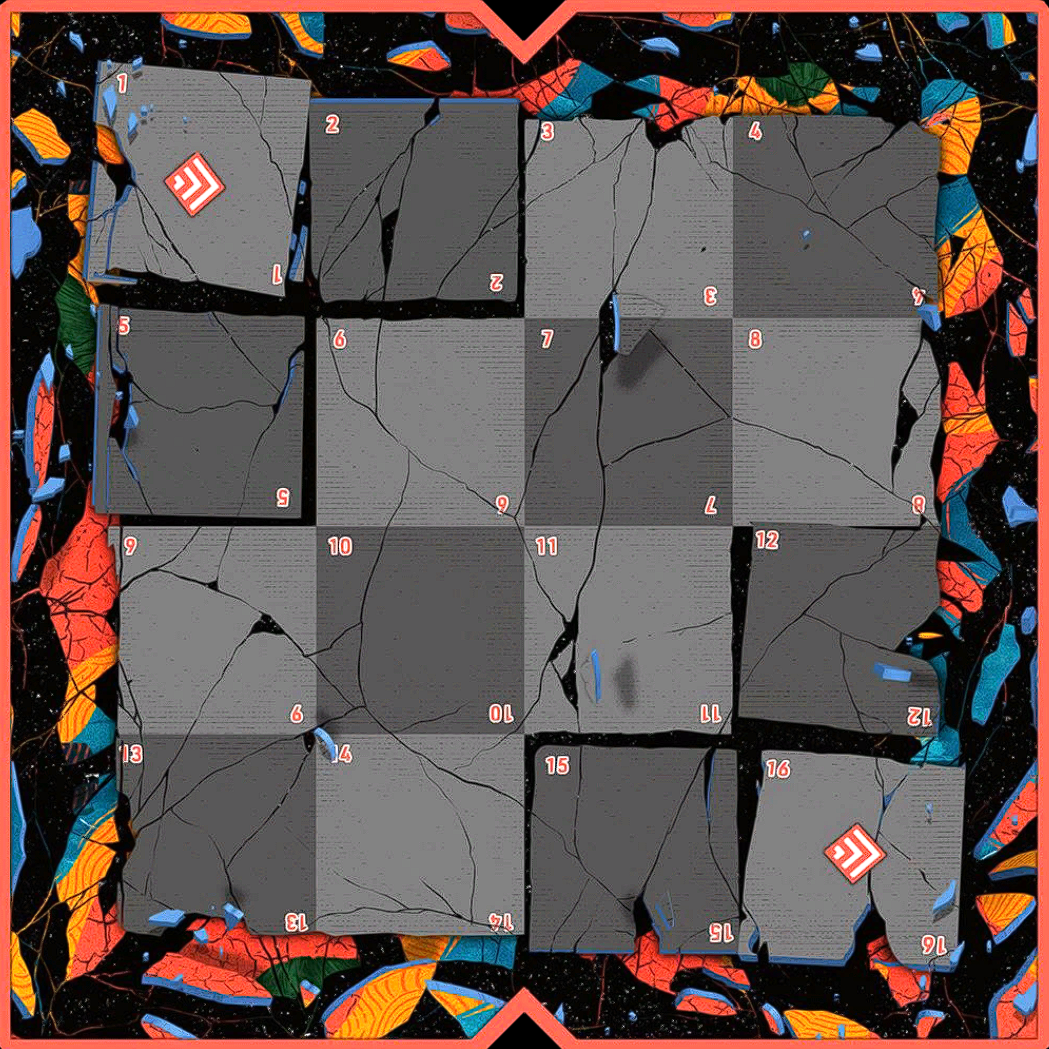
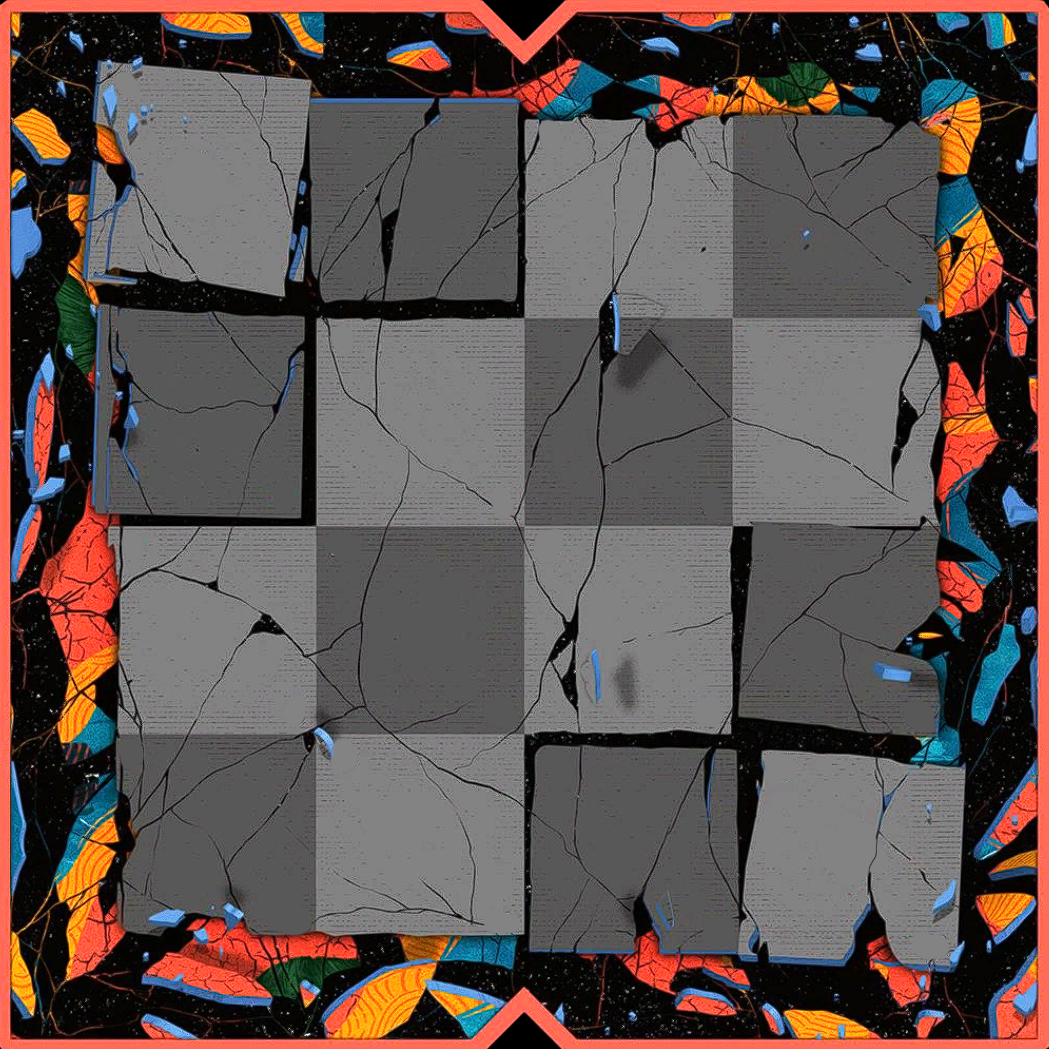
[IHM] Suggestion statue + images plateaux + animation joueur courant + couleur statue neutre

diff --git a/src/Vue/PlateauSwing.java b/src/Vue/PlateauSwing.java
@@ -19,7 +19,8 @@ public class PlateauSwing extends JComponent implements Plateau {
     Image pionNoir;
     Image statueBlanche;
     Image statueNoire;
-    Image statueOrange;
+    Image statueViolette;
+    Image statueVerte;
     VuePlateau vue;
     Graphics2D drawable;
     private final double pionSize = 0.8;
@@ -69,8 +70,11 @@ public class PlateauSwing extends JComponent implements Plateau {
             in = ClassLoader.getSystemClassLoader().getResourceAsStream("Img/statueNoire.png");
             statueNoire = ImageIO.read(in);
 
-            in = ClassLoader.getSystemClassLoader().getResourceAsStream("Img/statueOrange.png");
-            statueOrange = ImageIO.read(in);
+            in = ClassLoader.getSystemClassLoader().getResourceAsStream("Img/statueViolette.png");
+            statueViolette = ImageIO.read(in);
+
+            in = ClassLoader.getSystemClassLoader().getResourceAsStream("Img/statueVerte.png");
+            statueVerte = ImageIO.read(in);
 
         } catch (IOException e) {
             e.printStackTrace();
@@ -115,7 +119,7 @@ public class PlateauSwing extends JComponent implements Plateau {
             drawable.drawImage(statueNoire, (int) (getXoffset()+c*getLargeurCase()+(getLargeurCase()-getPionlargeur())/2), (int) (getYoffset()+l* getHauteurCase()+(getHauteurCase()-getPionHauteur())/2), getPionlargeur(), getPionHauteur(), this);
         }else{
             drawable.setComposite(AlphaComposite.getInstance(AlphaComposite.SRC_OVER, (float) alpha));
-            drawable.drawImage(statueOrange, (int) (getXoffset()+c*getLargeurCase()+(getLargeurCase()-getPionlargeur())/2), (int) (getYoffset()+l* getHauteurCase()+(getHauteurCase()-getPionHauteur())/2), getPionlargeur(), getPionHauteur(), this);
+            drawable.drawImage(statueViolette, (int) (getXoffset()+c*getLargeurCase()+(getLargeurCase()-getPionlargeur())/2), (int) (getYoffset()+l* getHauteurCase()+(getHauteurCase()-getPionHauteur())/2), getPionlargeur(), getPionHauteur(), this);
         }
         drawable.setComposite(compo);
     }
@@ -177,6 +181,10 @@ public class PlateauSwing extends JComponent implements Plateau {
         Color myColour = new Color(18, 255, 0,175 );
         drawable.setColor(myColour);
         drawable.fillOval(xFocus-focusRadius, yFocus-focusRadius, focusRadius*2, focusRadius*2);
+    }
+
+    public void tracerSuggestionStatue(double l, double c) {
+        drawable.drawImage(statueVerte, (int) (getXoffset()+c*getLargeurCase()+(getLargeurCase()-getPionlargeur())/2), (int) (getYoffset()+l* getHauteurCase()+(getHauteurCase()-getPionHauteur())/2), getPionlargeur(), getPionHauteur(), this);
     }
 
     public void tracerBrillanceFocus(int focus){

diff --git a/src/Vue/Inventory.java b/src/Vue/Inventory.java
@@ -9,6 +9,7 @@ import java.awt.event.MouseAdapter;
 import java.awt.event.MouseEvent;
 import java.io.IOException;
 import java.io.InputStream;
+import java.net.URL;
 import java.util.ArrayList;
 
 public class Inventory implements Observateur {
@@ -23,6 +24,8 @@ public class Inventory implements Observateur {
     JLabel labelPlayer;
     IHMState state;
     CollecteurEvenements controleur;
+    ImageIcon loadingIcon;
+    JLabel loadingLabel;
 
     Inventory(int joueur, DeroulementJeu jeu, IHMState state, CollecteurEvenements controleur){
 
@@ -48,14 +51,22 @@ public class Inventory implements Observateur {
                 in = ClassLoader.getSystemClassLoader().getResourceAsStream("Img/statueNoire.png");
                 pionStatue = ImageIO.read(in).getScaledInstance(50, 50, Image.SCALE_SMOOTH);
             }
+            URL url = ClassLoader.getSystemResource("Img/arrow.gif");
+            loadingIcon = new ImageIcon(url);
         } catch (IOException e) {
             e.printStackTrace();
         }
 
         panel = new JPanel();
-        panel.setLayout(new FlowLayout(FlowLayout.CENTER));
+        panel.setLayout(new FlowLayout(FlowLayout.CENTER,25,5));
         panel.setMaximumSize(new Dimension((int) panel.getMaximumSize().getWidth(), 60));
         panel.setPreferredSize(new Dimension((int) panel.getMaximumSize().getWidth(), 60));
+
+        loadingLabel = new JLabel(loadingIcon);
+        loadingIcon.setImage(loadingIcon.getImage().getScaledInstance(50,50,Image.SCALE_DEFAULT));
+        loadingLabel.setIcon(loadingIcon);
+        loadingLabel.setVisible(false);
+        panel.add(loadingLabel);
 
         labelPlayer = new JLabel("Joueur "+joueur+" : ");
         labelPlayer.setFont(new Font(Font.MONOSPACED, Font.BOLD, 30));
@@ -106,9 +117,11 @@ public class Inventory implements Observateur {
         if(jeu.getJoueurActuel().getID()==joueur){
             panel.setBackground(Color.ORANGE);
             labelPlayer.setForeground(Color.BLACK);
+            loadingLabel.setVisible(true);
         }else{
             panel.setBackground(Color.DARK_GRAY);
             labelPlayer.setForeground(Color.WHITE);
+            loadingLabel.setVisible(false);
         }
         // Affiche si joueur ou IA
         if(joueur==1){

diff --git a/src/Controleur/ControleurMediateur.java b/src/Controleur/ControleurMediateur.java
@@ -178,13 +178,12 @@ public class ControleurMediateur implements CollecteurEvenements {
                 break;
             case MOVE1:
             case MOVE2:
-                state.setSuggestionSource(dj.getPionActuel().getEmplacement());
-
                 c = suggestion.jouerCoup();
                 if (c.getFirst() == 1) {
+                    state.setSuggestionSource(dj.getPionActuel().getEmplacement());
                     state.setSuggestionDestination(c.getSecond());
                 } else if (c.getFirst() == 2){
-                    // TODO : voir quoi faire pr suggestion création de statue
+                    state.setSuggestionSource(null);
                     state.setSuggestionDestination(c.getSecond());
                 }
                 break;

diff --git a/src/Vue/VuePlateau.java b/src/Vue/VuePlateau.java
@@ -75,6 +75,11 @@ public class VuePlateau {
                 plateau.tracerSuggestionFocus(jeu.getJoueurActuel().getID());
             }
 
+            // Affiche les suggestion de statue
+            if(dest!=null && source==null && plateau.getEpoque()==dest.getEpoque()){
+                plateau.tracerSuggestionStatue(dest.getCoordonnees().getL(), dest.getCoordonnees().getC());
+            }
+
             // Affiche les brillances de focus
             if (jeu.getEtape() == ETAT.FOCUS) {
                 Joueur joueur = jeu.getJoueurActuel();

diff --git a/src/Vue/Plateau.java b/src/Vue/Plateau.java
@@ -12,6 +12,7 @@ public interface Plateau {
     void tracerFocusNoir(double alpha);
     void tracerSuggestionCase(int l, int c);
     void tracerSuggestionFocus(int focus);
+    void tracerSuggestionStatue(double l, double c);
     int getEpoque();
     IHMState getState();
     void decale(double dL, double dC, int l, int c);

diff --git a/src/Controleur/IADifficile.java b/src/Controleur/IADifficile.java
@@ -18,7 +18,7 @@ public class IADifficile extends IA{
     Method method;
     public IADifficile(Method method) {
         tour = new Tour();
-        this.horizon = 15;
+        this.horizon = 10;
         this.method = method;
     }
 
